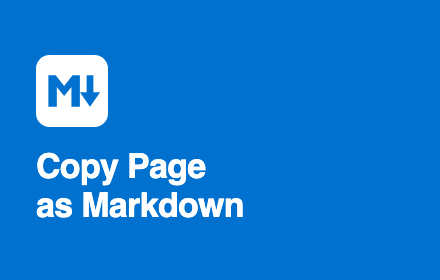
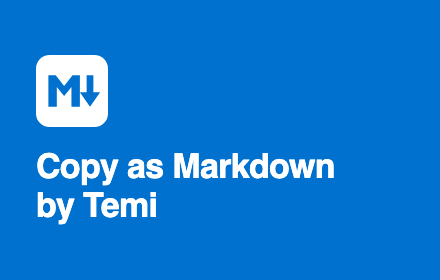
Name the extension Copy as Markdown by Temi
Another Chrome Web Store listing is already named Copy Page as Markdown.

Changed region(s): [[0.0591, 0.5429, 0.7682, 0.8]]

diff --git a/README.md b/README.md
@@ -1,4 +1,4 @@
-# Copy Page as Markdown
+# Copy as Markdown by Temi
 
 A Chrome extension that copies the page you are on to your clipboard as
 Markdown, ready to paste into an LLM. Not every site has a "copy to Markdown"
@@ -73,7 +73,7 @@ action, and read the real clipboard.
 
 ## Release
 
-Set the version in `manifest.json`, then push a matching tag such as `v0.1.0`.
+Set the version in `manifest.json`, then push a matching tag such as `v0.1.1`.
 CI runs the tests and attaches `copy-page-as-markdown.zip` to a GitHub release.
 Upload that zip in the Chrome Web Store developer dashboard. `store/` holds the
 listing text and images.

diff --git a/PRIVACY.md b/PRIVACY.md
@@ -1,6 +1,6 @@
 # Privacy Policy
 
-Copy Page as Markdown converts the page you are on to Markdown and writes it to
+Copy as Markdown by Temi converts the page you are on to Markdown and writes it to
 your clipboard when you click its toolbar icon or press its shortcut.
 
 The extension reads the content of the current tab only when you trigger it. The

diff --git a/store/listing.md b/store/listing.md
@@ -2,7 +2,7 @@
 
 ## Name
 
-Copy Page as Markdown
+Copy as Markdown by Temi
 
 ## Summary
 
